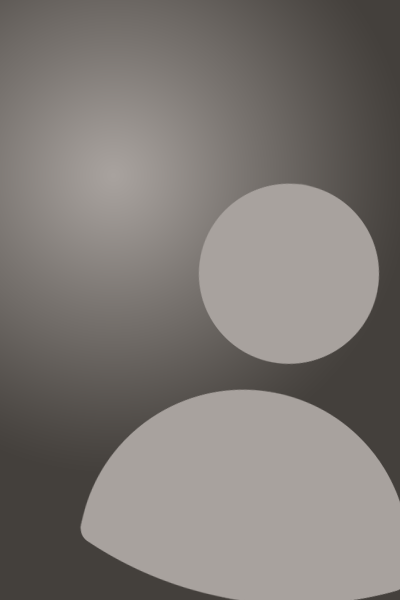
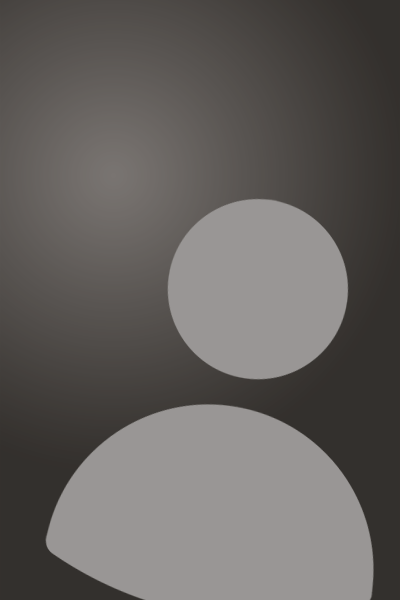
Add replacement for all possible preview images, if missing

diff --git a/src/components/previews/Previews.tsx b/src/components/previews/Previews.tsx
@@ -1,7 +1,7 @@
 import { useRef } from "react";
 import { Link } from "react-router-dom";
 
-import noPersonPhoto from "@/assets/noPersonPhoto.png";
+import { NO_MOVIE_POSTER, NO_PERSON_PHOTO, NO_SHOW_COVER } from "@/lib/assets";
 import { MOVIES_IMG_URL, PREVIEWS_GAP_CLASS } from "@/lib/constants";
 import {
   PreviewGroupProps,
@@ -103,7 +103,8 @@ function PreviewItem<T extends IBase>({
     >
       <Link
         to={`/${type === "tv" ? "shows" : type}/${media.id}`}
-        className="block" style={{height: height}}
+        className="block"
+        style={{ height: height }}
       >
         <PreviewImage media={media} type={type} />
       </Link>
@@ -145,16 +146,27 @@ function PreviewGroup<T extends IBase>({
 
 export function PreviewImage({ media, type, children }: PreviewImageProps) {
   // Getting the correct image element
-  const previewImg: keyof IBase =
-    type === "actors"
-      ? "profile_path"
-      : type === "tv"
-      ? "backdrop_path"
-      : "poster_path";
-  const imgPath = media[previewImg];
+  const IMAGE_KEYS: Record<string, keyof IBase> = {
+    actors: "profile_path",
+    tv: "backdrop_path",
+    movie: "poster_path",
+  };
 
-  // Building final img path
-  const fullImgPath =  `url(${imgPath ? MOVIES_IMG_URL+"w400"+imgPath : noPersonPhoto})`
+  const FALLBACK_IMAGES: Record<string, string> = {
+    actors: NO_PERSON_PHOTO,
+    tv: NO_SHOW_COVER,
+    movie: NO_MOVIE_POSTER,
+  };
+
+  // Get the appropriate image key and fallback image
+  const previewImg = IMAGE_KEYS[type] || "poster_path";
+  const fallbackImg = FALLBACK_IMAGES[type] || NO_MOVIE_POSTER;
+
+  // Build the final image path
+  const imgPath = media[previewImg];
+  const fullImgPath = `url(${
+    imgPath ? MOVIES_IMG_URL + "w500" + imgPath : fallbackImg
+  })`;
 
   // Getting correct classes for name element
   const getPreviewClassNames = (type: string) =>
@@ -168,12 +180,14 @@ export function PreviewImage({ media, type, children }: PreviewImageProps) {
       style={{
         backgroundImage: fullImgPath,
       }}
-      className="rounded-lg h-full flex items-end preview-bg relative"
+      className="rounded-lg h-full flex items-end preview-bg relative pt-3"
     >
       {children}
       {media.name && (
         <div
-          className={`bg-preview-gradient w-full ${getPreviewClassNames(type)}`}
+          className="bg-preview-gradient w-full text-[2rem] px-3 pb-2 pt-20"
+          // prettier-ignore
+          style={type === "tv" ? { fontSize: "2.2rem", padding: "2.5rem 1.5rem .75rem"} : {}}
         >
           <h4>{media.name}</h4>
         </div>

diff --git a/src/lib/assets.ts b/src/lib/assets.ts
@@ -1,0 +1,12 @@
+
+import noMoviePoster from "@/assets/noMoviePoster.png";
+import noMovieCover from "@/assets/noMovieCover.png";
+import noPersonPhoto from "@/assets/noPersonPhoto.png";
+import noShowPoster from "@/assets/noMoviePoster.png";
+import noShowCover from "@/assets/noShowCover.png";
+
+export const NO_MOVIE_POSTER = noMoviePoster;
+export const NO_MOVIE_COVER = noMovieCover;
+export const NO_SHOW_POSTER = noShowPoster;
+export const NO_SHOW_COVER = noShowCover;
+export const NO_PERSON_PHOTO = noPersonPhoto;
